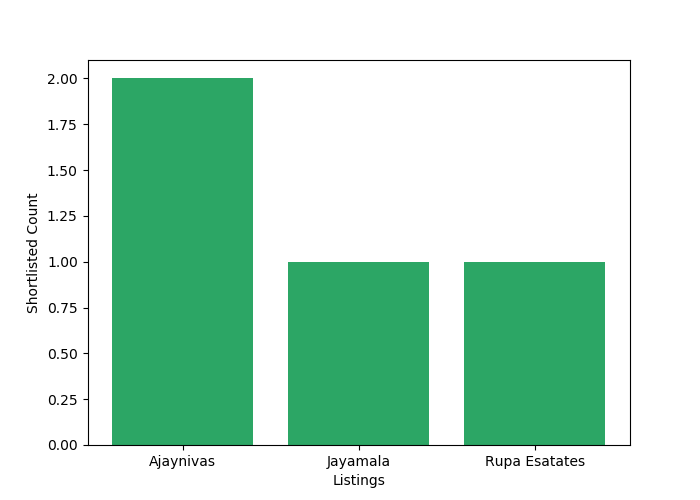
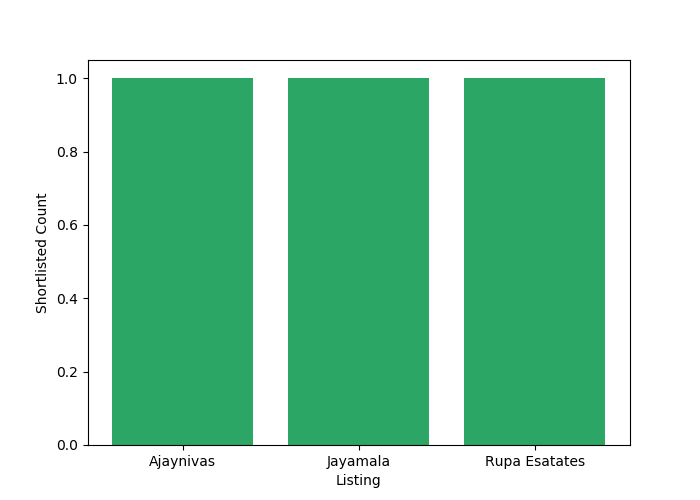
Replaced csv file from direct database data

diff --git a/visualization/views.py b/visualization/views.py
@@ -4,39 +4,42 @@ from matplotlib import pyplot as plt
 from django.contrib.auth.decorators import login_required
 from accounts.decorators import allowed_users
 from django.contrib.auth.models import Group 
-
+from django_pandas.io import read_frame
+from shortlist.models import Shortlist
 # Create your views here.
 @login_required(login_url='login')
 @allowed_users(allowed_roles=['admin'])
 def Visualize(request):
-	data = pd.read_csv('visualization/csv_files/Shortlist.csv')
-	data.head() 
-	df = pd.DataFrame(data)
+    data = Shortlist.objects.all()
 
-	df = df.loc[:,['listing']]
-	df.dropna( inplace=True)
+    df = read_frame(data)
+
+    print(df)
+    
+    df = df.loc[:,['listing']]
+    df.dropna( inplace=True)
 
 
-	count = df.count(axis=1)
+    count = df.count(axis=1)
 
 
-	df['count'] = count
+    df['count'] = count
 
-	df.columns = ['Listing', 'Count']
+    df.columns = ['Listing', 'Count']
 
-	df = df.groupby(["Listing"])["Count"].count().reset_index()
+    df = df.groupby(["Listing"])["Count"].count().reset_index()
 
-	listing = df['Listing'].head(len(df))
+    listing = df['Listing'].head(len(df))
 
-	count = df['Count'].head(len(df))
+    count = df['Count'].head(len(df))
 
-	fig = plt.figure(figsize =(7, 5))
+    fig = plt.figure(figsize =(7, 5))
 
-	plt.bar(listing[0:10], count[0:10], color='#2ca665') 
-	plt.xlabel('Listings')
-	plt.ylabel('Shortlisted Count')
+    plt.bar(listing[0:10], count[0:10], color='#2ca665') 
+    plt.xlabel('Listing')
+    plt.ylabel('Shortlisted Count')
 
-	plt.savefig('static/img/List_img.png')
+    plt.savefig('realbuy/static/img/List_img.png')
 
-	
-	return render(request, 'visualization/visual.html')
+    
+    return render(request, 'visualization/visual.html')
